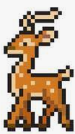
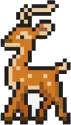
fix(viewer): knock out wildlife PNG square backgrounds

diff --git a/simulation/sprites.js b/simulation/sprites.js
@@ -2415,19 +2415,19 @@ const WILDLIFE_SHEET_URL = "/wildlife.png";
 
 // Kind → source rect(s). 13 user-art kinds; bird/owl/squirrel unmapped → canvas.
 const WILDLIFE_SHEET_FRAMES = {
-  deer: { sx: 2, sy: 2, sw: 75, sh: 134, destW: 25, destH: 44 },
-  boar: { sx: 79, sy: 2, sw: 261, sh: 193, destW: 44, destH: 33 },
-  grazer: { sx: 342, sy: 2, sw: 201, sh: 125, destW: 44, destH: 27 },
-  seal: { sx: 545, sy: 2, sw: 215, sh: 111, destW: 44, destH: 23 },
-  fox: { sx: 762, sy: 2, sw: 89, sh: 94, destW: 32, destH: 34 },
-  turtle: { sx: 2, sy: 197, sw: 206, sh: 124, destW: 34, destH: 20 },
-  rabbit: { sx: 210, sy: 197, sw: 77, sh: 82, destW: 32, destH: 34 },
-  chicken: { sx: 289, sy: 197, sw: 83, sh: 91, destW: 31, destH: 34 },
-  gull: { sx: 374, sy: 197, sw: 177, sh: 107, destW: 34, destH: 21 },
-  mouse: { sx: 553, sy: 197, sw: 103, sh: 90, destW: 26, destH: 23 },
-  fish: { sx: 658, sy: 197, sw: 114, sh: 96, destW: 26, destH: 22 },
-  crab: { sx: 774, sy: 197, sw: 168, sh: 134, destW: 26, destH: 21 },
-  bee: { sx: 2, sy: 333, sw: 186, sh: 206, destW: 23, destH: 26 },
+  deer: { sx: 2, sy: 2, sw: 71, sh: 125, destW: 25, destH: 44 },
+  boar: { sx: 75, sy: 2, sw: 256, sh: 181, destW: 44, destH: 31 },
+  grazer: { sx: 333, sy: 2, sw: 195, sh: 119, destW: 44, destH: 27 },
+  seal: { sx: 530, sy: 2, sw: 215, sh: 106, destW: 44, destH: 22 },
+  fox: { sx: 747, sy: 2, sw: 87, sh: 87, destW: 34, destH: 34 },
+  turtle: { sx: 2, sy: 185, sw: 205, sh: 107, destW: 34, destH: 18 },
+  rabbit: { sx: 209, sy: 185, sw: 64, sh: 68, destW: 32, destH: 34 },
+  chicken: { sx: 275, sy: 185, sw: 78, sh: 82, destW: 32, destH: 34 },
+  gull: { sx: 355, sy: 185, sw: 173, sh: 104, destW: 34, destH: 20 },
+  mouse: { sx: 530, sy: 185, sw: 96, sh: 82, destW: 26, destH: 22 },
+  fish: { sx: 628, sy: 185, sw: 102, sh: 78, destW: 26, destH: 20 },
+  crab: { sx: 732, sy: 185, sw: 168, sh: 133, destW: 26, destH: 21 },
+  bee: { sx: 2, sy: 320, sw: 186, sh: 206, destW: 23, destH: 26 },
 };
 
 const _wildlifeSheetBlitCache = new Map();

diff --git a/scripts/build_wildlife_sheet.py b/scripts/build_wildlife_sheet.py
@@ -1,10 +1,12 @@
 #!/usr/bin/env python3
 """Pack user-provided wildlife PNGs into simulation/wildlife.png.
 
-Loads simulation/assets/wildlife/<kind>.png for each mapped kind, trims
-transparent padding (and mint-green backdrop on bee.png), shelf-packs into
-one RGBA atlas, writes simulation/wildlife.png, and prints WILDLIFE_SHEET_FRAMES
+Loads simulation/assets/wildlife/<kind>.png for each mapped kind, keys square
+backdrops via border-connected flood-fill, trims transparent padding, shelf-packs
+into one RGBA atlas, writes simulation/wildlife.png, and prints WILDLIFE_SHEET_FRAMES
 for sprites.js.
+
+Source PNGs are overwritten in place with keyed + trimmed versions.
 
 Kinds without a source PNG (bird, owl, squirrel) are omitted — the viewer falls
 back to canvas helpers / procedural grids.
@@ -15,6 +17,7 @@ Run: uv run python scripts/build_wildlife_sheet.py
 from __future__ import annotations
 
 import json
+from collections import deque
 from pathlib import Path
 
 from PIL import Image
@@ -25,6 +28,7 @@ OUT_PATH = ROOT / "simulation" / "wildlife.png"
 PREVIEW_PATH = ROOT / "simulation" / "_vendor" / "wildlife-preview-4x.png"
 
 PADDING = 2
+BG_TOLERANCE = 35
 
 # Kinds with user PNGs (pack order: large → mid → small for tighter rows).
 SHEET_KINDS = [
@@ -54,50 +58,124 @@ def _corner_colors(img: Image.Image) -> list[tuple[int, int, int, int]]:
     return [px[x, y] for x, y in pts]
 
 
+def _avg_rgb(colors: list[tuple[int, int, int, int]]) -> tuple[int, int, int]:
+    return (
+        sum(c[0] for c in colors) // len(colors),
+        sum(c[1] for c in colors) // len(colors),
+        sum(c[2] for c in colors) // len(colors),
+    )
+
+
 def _is_mint_green(r: int, g: int, b: int) -> bool:
     """Near #c8e6c9 and other light mint-greens used as bee backdrop."""
     if g < 170 or r < 150 or b < 150:
         return False
     if g >= r and g >= b and (g - min(r, b)) >= 15:
         return True
-    # explicit #c8e6c9 neighborhood
     return abs(r - 200) <= 40 and abs(g - 230) <= 40 and abs(b - 201) <= 40
 
 
-def _pixel_empty(r: int, g: int, b: int, a: int, bg: tuple[int, int, int] | None) -> bool:
+def _is_near_white(r: int, g: int, b: int, *, threshold: int = 235) -> bool:
+    return r >= threshold and g >= threshold and b >= threshold
+
+
+def _matches_rgb(
+    r: int,
+    g: int,
+    b: int,
+    ref: tuple[int, int, int],
+    *,
+    tol: int = BG_TOLERANCE,
+) -> bool:
+    return (
+        abs(r - ref[0]) <= tol
+        and abs(g - ref[1]) <= tol
+        and abs(b - ref[2]) <= tol
+    )
+
+
+def _border_background_pixel(
+    r: int,
+    g: int,
+    b: int,
+    a: int,
+    *,
+    corner_avg: tuple[int, int, int],
+    corners: list[tuple[int, int, int, int]],
+    tol: int = BG_TOLERANCE,
+) -> bool:
     if a < 16:
         return True
-    if bg is not None:
-        dr, dg, db = abs(r - bg[0]), abs(g - bg[1]), abs(b - bg[2])
-        if dr <= 35 and dg <= 35 and db <= 35:
-            return True
-    if _is_mint_green(r, g, b):
+    if _matches_rgb(r, g, b, corner_avg, tol=tol):
+        return True
+    if any(_matches_rgb(r, g, b, (c[0], c[1], c[2]), tol=tol) for c in corners):
+        return True
+    if _is_near_white(*corner_avg) and _is_near_white(r, g, b):
+        return True
+    if any(_is_mint_green(c[0], c[1], c[2]) for c in corners) and _is_mint_green(r, g, b):
         return True
     return False
 
 
-def trim_image(img: Image.Image, *, treat_corners_as_bg: bool = False) -> Image.Image:
-    """Crop to opaque bounding box; optional corner-chroma key (bee)."""
+def key_background(img: Image.Image, *, tol: int = BG_TOLERANCE) -> Image.Image:
+    """Remove backdrop connected to image borders via flood-fill."""
+    img = img.convert("RGBA")
+    px = img.load()
+    assert px is not None
+    w, h = img.size
+    corners = _corner_colors(img)
+    corner_avg = _avg_rgb(corners)
+
+    is_bg = [[False] * w for _ in range(h)]
+    queue: deque[tuple[int, int]] = deque()
+
+    def try_seed(x: int, y: int) -> None:
+        r, g, b, a = px[x, y]
+        if _border_background_pixel(
+            r, g, b, a, corner_avg=corner_avg, corners=corners, tol=tol
+        ):
+            is_bg[y][x] = True
+            queue.append((x, y))
+
+    for x in range(w):
+        try_seed(x, 0)
+        try_seed(x, h - 1)
+    for y in range(h):
+        try_seed(0, y)
+        try_seed(w - 1, y)
+
+    while queue:
+        x, y = queue.popleft()
+        for nx, ny in ((x - 1, y), (x + 1, y), (x, y - 1), (x, y + 1)):
+            if nx < 0 or ny < 0 or nx >= w or ny >= h or is_bg[ny][nx]:
+                continue
+            r, g, b, a = px[nx, ny]
+            if _border_background_pixel(
+                r, g, b, a, corner_avg=corner_avg, corners=corners, tol=tol
+            ):
+                is_bg[ny][nx] = True
+                queue.append((nx, ny))
+
+    for y in range(h):
+        for x in range(w):
+            if is_bg[y][x]:
+                px[x, y] = (0, 0, 0, 0)
+
+    return img
+
+
+def trim_image(img: Image.Image) -> Image.Image:
+    """Crop to opaque bounding box."""
     img = img.convert("RGBA")
     px = img.load()
     assert px is not None
     w, h = img.size
 
-    bg: tuple[int, int, int] | None = None
-    if treat_corners_as_bg:
-        corners = _corner_colors(img)
-        bg = (
-            sum(c[0] for c in corners) // 4,
-            sum(c[1] for c in corners) // 4,
-            sum(c[2] for c in corners) // 4,
-        )
-
     min_x, min_y = w, h
     max_x, max_y = -1, -1
     for y in range(h):
         for x in range(w):
-            r, g, b, a = px[x, y]
-            if not _pixel_empty(r, g, b, a, bg):
+            if px[x, y][3] >= 16:
                 min_x = min(min_x, x)
                 min_y = min(min_y, y)
                 max_x = max(max_x, x)
@@ -107,6 +185,15 @@ def trim_image(img: Image.Image, *, treat_corners_as_bg: bool = False) -> Image.
         return img
 
     return img.crop((min_x, min_y, max_x + 1, max_y + 1))
+
+
+def key_and_save(path: Path, *, tol: int = BG_TOLERANCE) -> Image.Image:
+    """Key backdrop, trim, overwrite source PNG; return trimmed image."""
+    raw = Image.open(path).convert("RGBA")
+    keyed = key_background(raw, tol=tol)
+    trimmed = trim_image(keyed)
+    trimmed.save(path, optimize=True)
+    return trimmed
 
 
 def dest_size(sw: int, sh: int, max_side: int) -> tuple[int, int]:
@@ -181,14 +268,14 @@ def write_preview(sheet: Image.Image, path: Path, scale: int = 4) -> None:
 
 def main() -> None:
     trimmed: dict[str, Image.Image] = {}
-    print("Loading and trimming assets:")
+    print("Keying, trimming, and saving source assets:")
     for kind in SHEET_KINDS:
         src = ASSETS_DIR / f"{kind}.png"
         if not src.is_file():
             print(f"  SKIP {kind}: missing {src.name}")
             continue
         raw = Image.open(src).convert("RGBA")
-        img = trim_image(raw, treat_corners_as_bg=(kind == "bee"))
+        img = key_and_save(src)
         trimmed[kind] = img
         print(f"  {kind:8s} {raw.size[0]:4d}x{raw.size[1]:<4d} -> {img.size[0]:4d}x{img.size[1]}")
 
